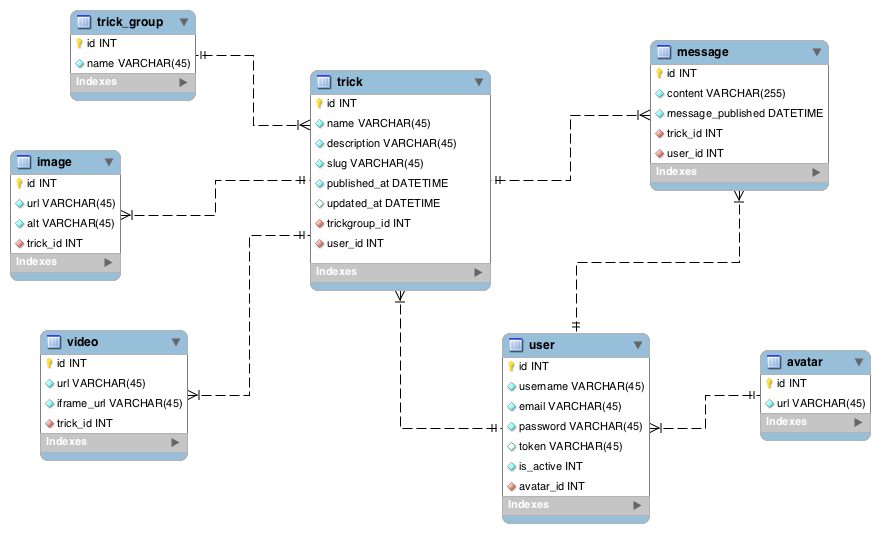
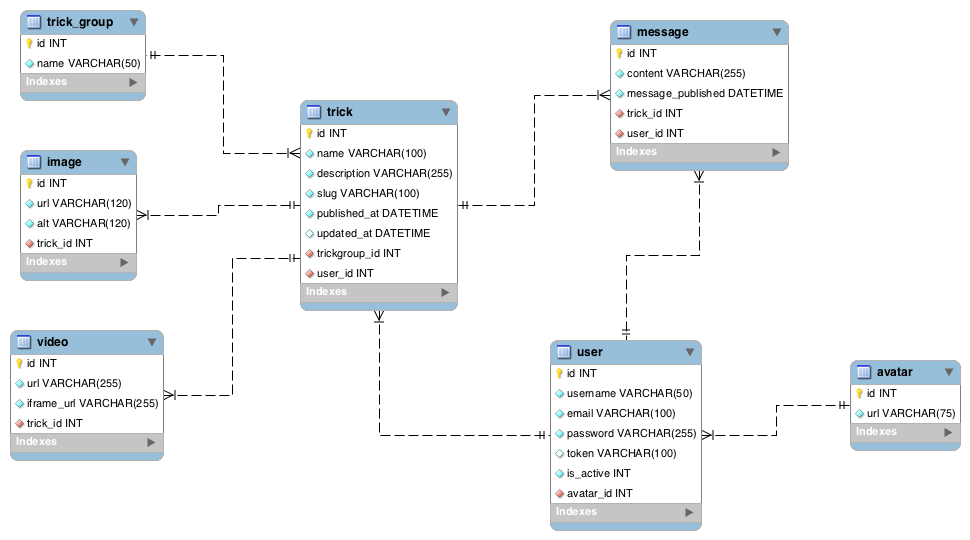
Correct MPD

diff --git a/src/Snowtricks/PlatformBundle/Entity/Trick.php b/src/Snowtricks/PlatformBundle/Entity/Trick.php
@@ -68,7 +68,7 @@ class Trick
     /**
      * @var string
      *
-     * @ORM\Column(name="slug", type="string", length=255, unique=true)
+     * @ORM\Column(name="slug", type="string", length=100, unique=true)
      */
     private $slug;
 
